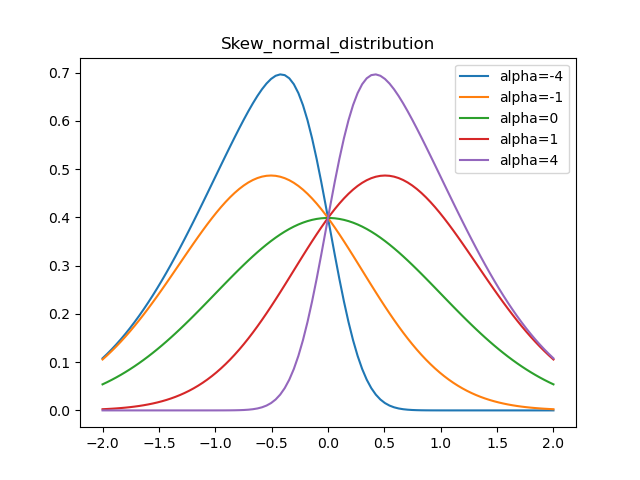
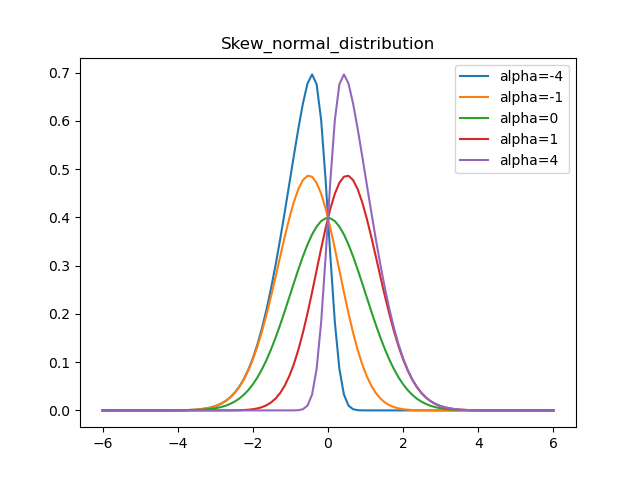
new

diff --git a/probDistribution.py b/probDistribution.py
@@ -736,7 +736,7 @@ def testStable_distribution(i):
 def testSkew_normal_distribution(i):
     ax = plt.subplot(1,1,1)
     plt.title('Skew_normal_distribution')
-    x = np.linspace(-2, 2, 100)
+    x = np.linspace(-6, 6, 100)
     plotSub(x, Skew_normal_distribution(x), ax,label='alpha=-4')
     plotSub(x, Skew_normal_distribution(x,alpha=-1), ax,label='alpha=-1')
     plotSub(x, Skew_normal_distribution(x,alpha=0), ax,label='alpha=0')
@@ -805,7 +805,7 @@ def plotAllDistributions():
 
 def main():
     #plotAllDistributions()
-    testLandau_distribution(39)
+    testSkew_normal_distribution(50)
     pass
 
 if __name__ == '__main__':
